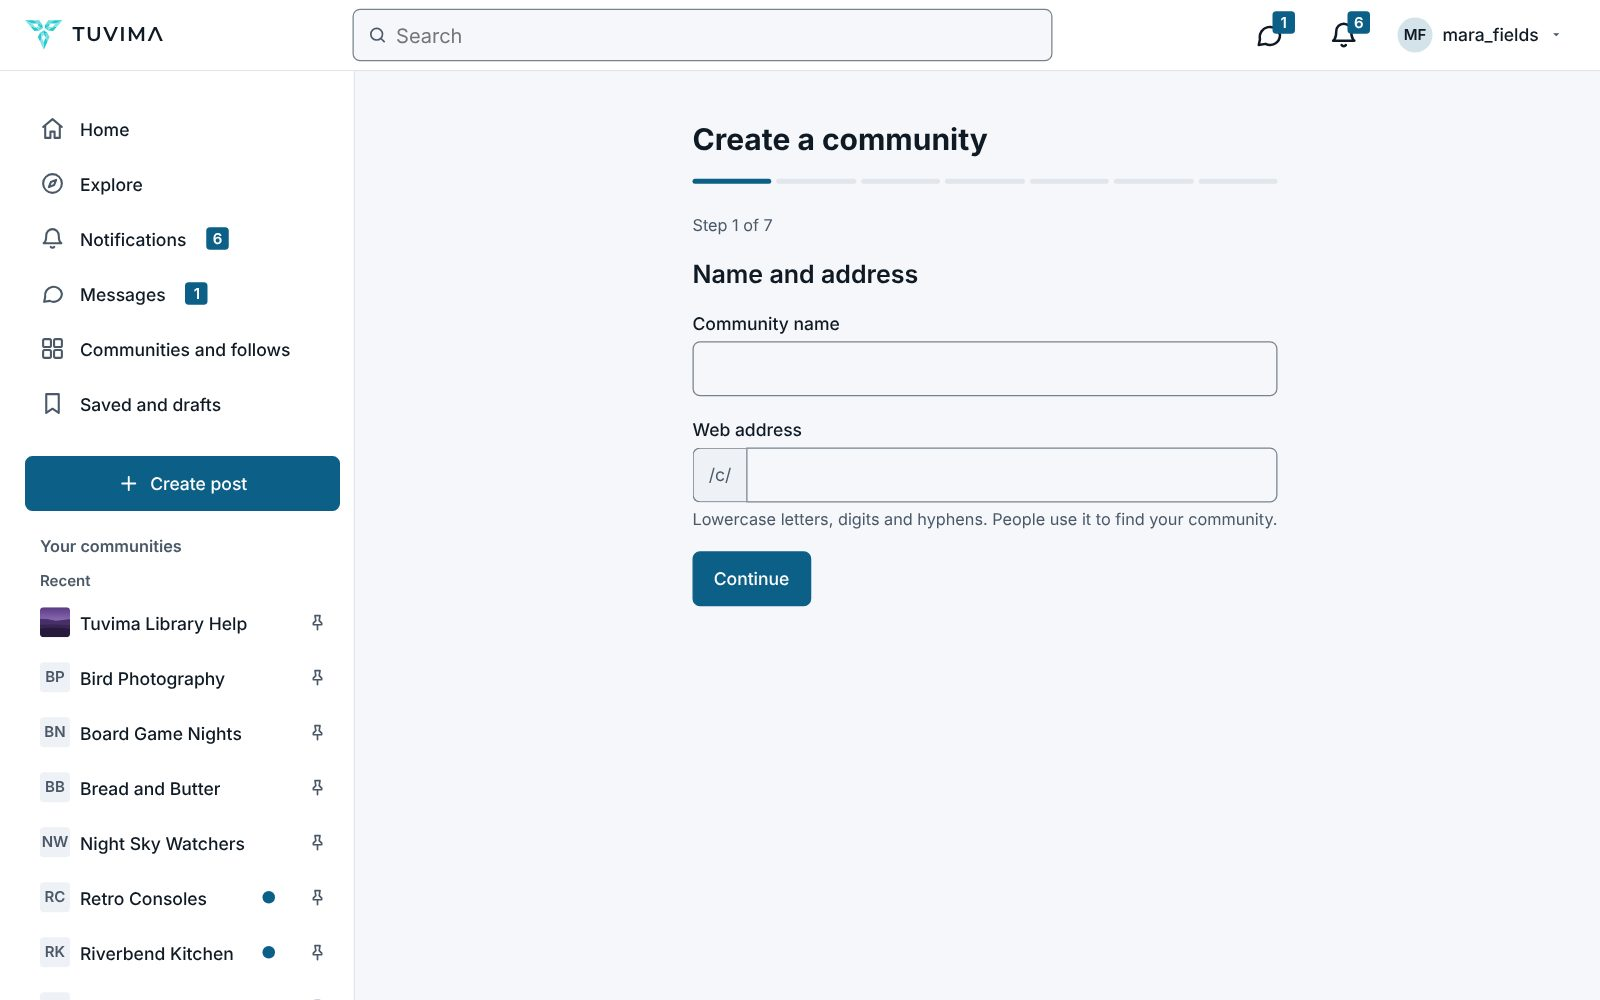
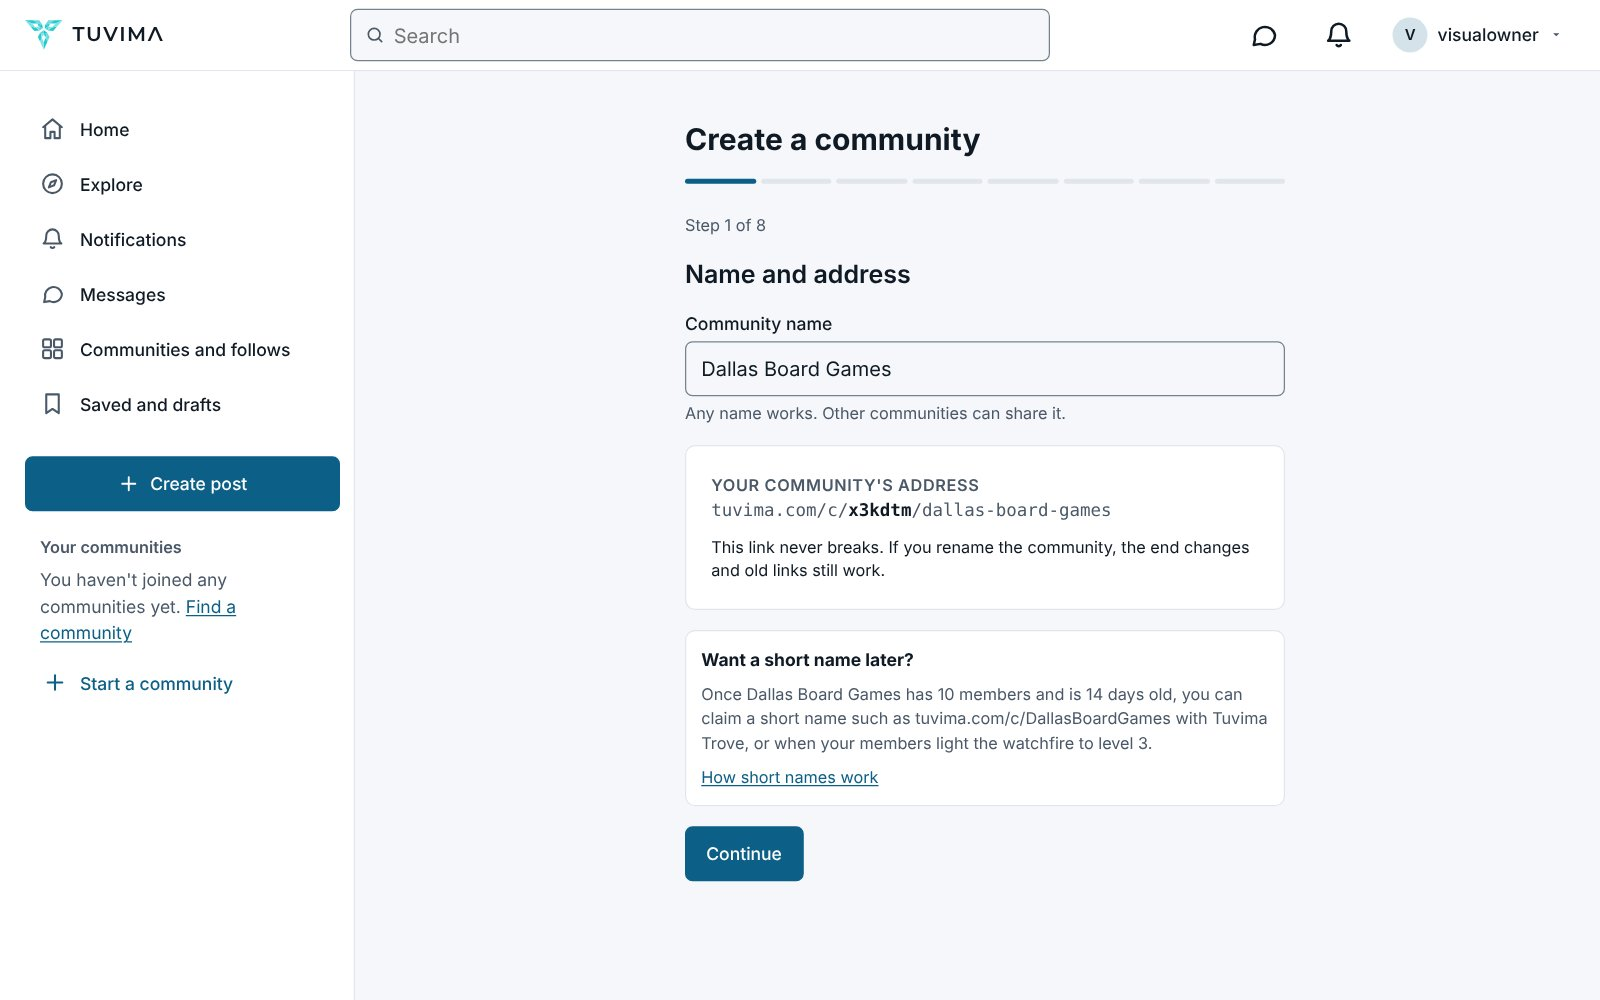
Community addresses: new 'Your community's address' page; Start a community shows the permanent address; short names count across all your personas (ADR-0398, ADR-0399) (#218)
Claude-Session: https://claude.ai/code/session_011zM9ng1bZ2jUZvZ3zTMBjv

diff --git a/content/products/social/owners/start-a-community.md b/content/products/social/owners/start-a-community.md
@@ -1,6 +1,6 @@
 ---
 title: Start a community
-description: Create a community in seven short steps, choose its address and rules, and decide whether to limit newcomers. It is free and takes about ten minutes.
+description: Create a community in seven short steps, choose its name and rules, and decide whether to limit newcomers. It is free and takes about ten minutes.
 audience: user
 category: tutorial
 product_area: tuvima
@@ -27,7 +27,7 @@ Starting a community is free, and Tuvima looks after the hosting. It takes about
 
 Choose **Start a community** on the front page. The **Create a community** steps are:
 
-1. **Name and address.** The name is 3 to 80 characters. The address is the part after `/c/` in the web address, for example `/c/dallas-board-games`. It is suggested from the name and uses lowercase letters, numbers and single hyphens. **The address can never change**, so choose carefully.
+1. **Name.** 3 to 80 characters. Other communities can have the same name. As you type, you see the community's [permanent address](community-address.md), for example `tuvima.com/c/k7f3q2/dragon-masters`: a code that never changes, then words from the name.
 2. **Public or private.** **Public** means anyone can read and signed-in people can join. **Private** means only members can read; people join by asking or with an invite. See [make your community private](make-it-private.md).
 3. **Description.** Up to 1,000 characters on what the community is about, and **where it shows on Tuvima**: a front-page category and subtopic. Tuvima suggests one from the name and description, for example Gaming › Tabletop for "D&D Gamers in Dallas". Your community's conversations carry this place as their labels.
 4. **Rules.** Write your community's rules. They sit on top of [the rules everyone follows](../guides/community-rules.md).
@@ -35,8 +35,6 @@ Choose **Start a community** on the front page. The **Create a community** steps
 6. **Newcomer limits.** Off unless you switch on **Limit newcomers**. See below.
 7. **Welcome new members.** Optional: pick a [template](onboarding-templates.md) (gaming group, product support, creator fan club or local club) to fill in your join questions, a welcome and first Waymarks, or leave it on **Not now**.
 8. **Review.** Check everything, then choose **Create community**.
-
-Some addresses are reserved, for example ones that look like Tuvima staff or support.
 
 ## Should you limit newcomers?
 

diff --git a/content/products/social/money/watchfire-and-kindling.md b/content/products/social/money/watchfire-and-kindling.md
@@ -1,6 +1,6 @@
 ---
-title: Community addresses, Watchfire and Kindling
-description: "How community addresses and short names work, how members light a community's Watchfire to unlock extras, and how free Kindling rewards taking part."
+title: Short names, Watchfire and Kindling
+description: "How short community names work, how members light a community's Watchfire to unlock extras, and how free Kindling rewards taking part."
 audience: user
 category: guide
 product_area: tuvima
@@ -13,14 +13,9 @@ These features are planned and not available yet. Numbers shown are starting val
 
 Every community has a link that never breaks. Members can help a community unlock extras together, with **Watchfire** if they have Tuvima Trove and with free **Kindling** if they don't.
 
-## Community addresses
+## Short names
 
-Every community gets a permanent address made of a short code and its name, for example `tuvima.com/c/k7f3q2/dragon-masters`.
-
-- **Names can repeat.** Several communities can be called "Dragon Masters". You tell them apart by their picture, size and topic, and verified organisations carry a verified mark.
-- **Renaming never breaks links.** The code never changes, so old links still open the right community.
-
-### Short names
+Every community already has a [permanent address](../owners/community-address.md) that never breaks, such as `tuvima.com/c/k7f3q2/dragon-masters`.
 
 An established community can also claim a short address, such as `tuvima.com/c/DragonMasters`.
 
@@ -32,7 +27,7 @@ An established community can also claim a short address, such as `tuvima.com/c/D
 | Trove Platinum | 5 |
 | A community at Watchfire 3 | 1, while it stays at that level |
 
-The community needs at least 10 members and must be 14 days old.
+The Trove numbers count every short name you hold, across all your personas together. The community needs at least 10 members and must be 14 days old.
 
 **If the plan or level ends,** the short name keeps working for 30 days, then it is held for the community for 90 more days. After that another community can claim it. The permanent address never changes. Once a short name goes to another community, the short link opens that community instead, so share the permanent address when a link needs to last.
 

diff --git a/content/products/social/owners/community-address.md b/content/products/social/owners/community-address.md
@@ -1,0 +1,28 @@
+---
+title: Your community's address
+description: "Every community has a permanent address, a short code plus words from its name, so links keep working after a rename. Find and copy it under Manage, Address."
+audience: administrator
+category: guide
+product_area: tuvima
+status: early-access
+---
+
+Every community has a **permanent address**: a short code that never changes, then words from the community's name.
+
+`tuvima.com/c/k7f3q2/dragon-masters`
+
+## How it works
+
+- **The code is the address.** The six letters and numbers after `/c/` are given when the community is created and never change.
+- **The words follow the name.** They are there so people can tell what a link is before opening it. Rename the community and the words change, and old links still open it: `tuvima.com/c/k7f3q2/anything` goes to the same place.
+- **Names can repeat.** Several communities can be called "Dragon Masters". Each has its own code, and people tell them apart by their picture, size and topic.
+
+## Find and copy it
+
+Owners and admins open **Manage**, then **Address**. The page shows the permanent address with a **Copy address** button. Members can copy it from their browser's address bar.
+
+## Short names
+
+A short name, such as `tuvima.com/c/DragonMasters`, will come with [Tuvima Trove](../money/tuvima-trove.md). **Manage**, **Address** already shows what a community needs for one: at least 10 members, 14 days since it started, and an owner with Trove. Trove is not on sale yet, so no community can claim a short name for now. [Short names](../money/watchfire-and-kindling.md#short-names) explains how they will work, including what happens when Trove ends.
+
+Share the permanent address when a link needs to last: a short name can, in time, go to another community.

diff --git a/content/products/social/owners/admin-area.md b/content/products/social/owners/admin-area.md
@@ -24,7 +24,7 @@ The menu down the side has four groups. You only see the pages your roles allow,
 | Group | Pages |
 | --- | --- |
 | **Insights** | **Insights**: how your community is doing, counted each night. See [Insights](run-your-community.md#insights). |
-| **Community** | **General** (name, description, newcomer limits, category on Tuvima, edit history, removal notices, launch checklist), **Look and home page**, **Forums and categories** (or **Chat channels**, for someone who only manages chat), **Rules**, **Photos** and **Add-ons**. |
+| **Community** | **General** (name, description, newcomer limits, category on Tuvima, edit history, removal notices, launch checklist), **Look and home page**, [**Address**](community-address.md), **Forums and categories** (or **Chat channels**, for someone who only manages chat), **Rules**, **Photos** and **Add-ons**. |
 | **Members and access** | **Members**, **Join requests**, **Joining and privacy**, **Roles and permissions**, **Levels**, **Achievements**, **Member tiers** and **Invites**. |
 | **Safety** | **Approval queue** (held posts, join requests and reports), **Photo reports**, **Removed posts**, **Warnings and word filters** and **Moderation log**. |
 

diff --git a/content/products/social/owners/run-your-community.md b/content/products/social/owners/run-your-community.md
@@ -117,6 +117,7 @@ The [admin area](admin-area.md) lists every settings page. You see the ones your
 
 - **General**: name, description, newcomer limits, **Category on Tuvima** (which front-page category your community belongs to), edit history, whether readers see "Hidden by moderators" notes, and the launch checklist.
 - **Look and home page**: see [change your community's look](look-and-feel.md).
+- **Address**: the community's permanent address, with a Copy button. See [your community's address](community-address.md).
 - **Menu**: which extra pages members see under **Pages** in the community's menu (**Photos**, **Achievements** and **Rules**), and whether **Pages** starts folded. Hiding a page only takes it out of the menu: **Rules** can always be reached from **About and rules** in the community's own menu. Trailhead and Lamplighters show by themselves when you have them.
 - **Forums and categories**: how conversations are grouped, forum types, who can see and post in each, and their labels on Tuvima. See [categories, forums and the front page](categories-and-forums.md) and [choose who can see and post in each area](area-access.md).
 - **Rules**, **Photos** and **Add-ons**: see [add-ons](add-ons.md).

diff --git a/content/products/social/money/tuvima-trove.md b/content/products/social/money/tuvima-trove.md
@@ -24,7 +24,7 @@ Tuvima Trove is not available yet. It arrives with payments. Prices shown here a
 
 Bronze comes first. The other levels follow soon after.
 
-If you own a community, Trove also lets you claim short community names (Bronze 1, Silver 2, Gold 3, Platinum 5), and Bronze members get a monthly Watchfire spark. See [Community addresses, Watchfire and Kindling](watchfire-and-kindling.md).
+If you own a community, Trove also lets you claim short community names (Bronze 1, Silver 2, Gold 3, Platinum 5), and Bronze members get a monthly Watchfire spark. See [Short names, Watchfire and Kindling](watchfire-and-kindling.md).
 
 ## Longer plans include Gold Castar
 
